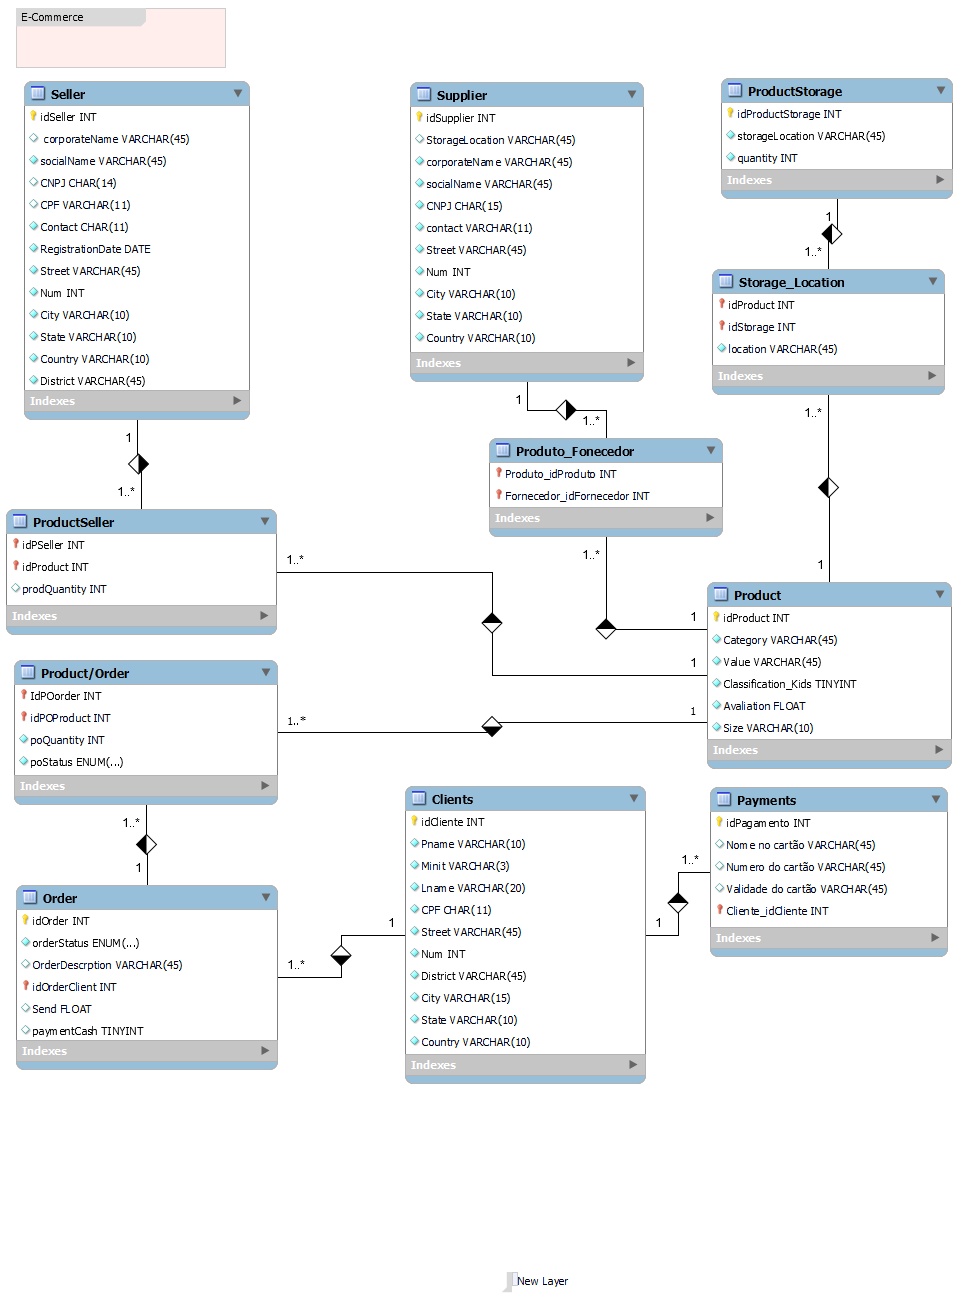
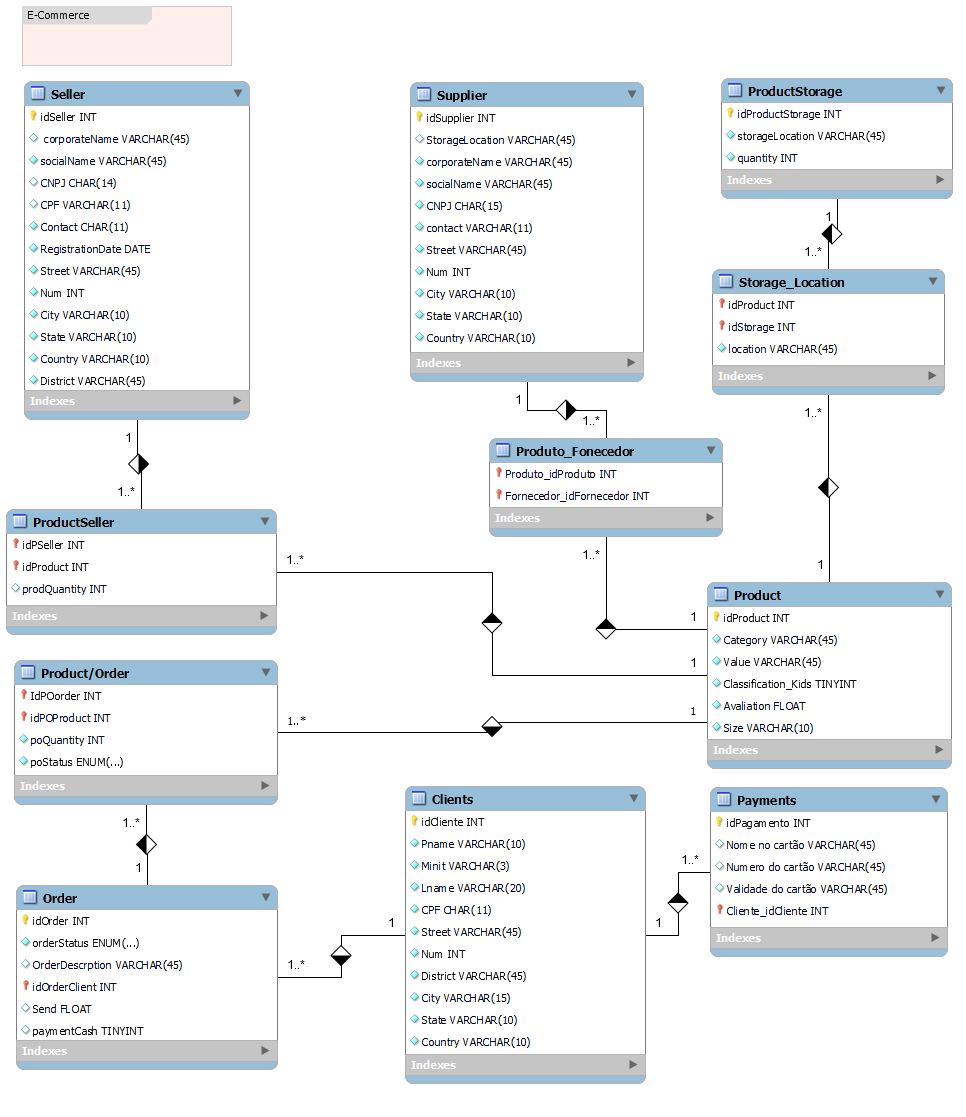
Alteração do arquivo README e Imagem E-commerce

diff --git a/README.md b/README.md
@@ -1,52 +1,66 @@
 # Primeiro projeto lógico de banco de dados
 
-Este projeto cria um esquema de banco de dados para um cenário de E-commerce. No arquivo [Schema-e-commerce](https://github.com/Sanderfn/Primeiro-projeto-logico-de-banco-de-dados/blob/main/Schema-e-commerce.sql) é fornecido é um conjunto de instruções SQL que cria as tabelas necessárias para um banco de dados destinado a um cenário de E-commerce onde são armazenadas e relacionadas as informações sobre clientes, produtos, pedidos, fornecedores e vendedores, de maneira estruturada para suportar as operações do negócio. No arquivo [Insertion](https://github.com/Sanderfn/Primeiro-projeto-logico-de-banco-de-dados/blob/main/Insertion.sql) é fornecido um conjunto de instruções SQL que realiza a inserção de dados em várias tabelas de um banco de dados relacionais e executa consultas para verificar os dados inseridos. Isso permite testar e verificar o funcionamento do banco de dados e das relações entre as tabelas criandas no arquivos [Schema-e-commerce](https://github.com/Sanderfn/Primeiro-projeto-logico-de-banco-de-dados/blob/main/Schema-e-commerce.sql). No arquivo [Search](https://github.com/Sanderfn/Primeiro-projeto-logico-de-banco-de-dados/blob/main/Search.sql) é fornecido um conjunto de instruções SQL que realiza uma série de consultas SQL para realizar várias operações em um banco de dados.
+## Descrição do projeto
 
-## Descrição da funcionalidade
+<p align="justify"> Este desafio de projeto consiste na criação de um projeto lógico de banco de dados para um cenário de e-commerce, com o objetivo de gerenciar clientes, produtos, pedidos, pagamentos, estoque, fornecedores e vendedores. Durante a modelagem, foi realizada a implementação de chaves primárias, chaves estrangeiras e constraints presente no cenário modelado. O projeto contempla o Script SQL para a criação do banco de dados relacional. Posteriormente, por meio de Scripts, os dados devem ser persistidos dados para a realização de testes, utilizando queries simples e complexas. As queries criadas devem possuir as seguintes cláusulas.
 
-### [Schema e-commerce](https://github.com/Sanderfn/Primeiro-projeto-logico-de-banco-de-dados/blob/main/Schema-e-commerce.sql)
+- Recuperação de informações simples com Select Statment
+- Filtros com WHERE Statement
+- Expressões para gerar atributos derivados
+- Definir ordenação dos dados com Order By
+- aplicação de condições de filtro aos grupos Having Statement
+- Criação de junções entre tabelas para fornecer uma perspectivas mais complexas dos dados
+
+## Modelo Entidade Relacional
+- Imagem Modelo Entidade Relacional e-commerce
+<div aling="center">
+ <img src="https://github.com/Sanderfn/Primeiro-projeto-logico-de-banco-de-dados/blob/main/E-commerce.png">
+</div>
+
+## [Schema e-commerce](https://github.com/Sanderfn/Primeiro-projeto-logico-de-banco-de-dados/blob/main/Schema-e-commerce.sql)
+<p align="justify"> O arquivo Schema-e-commerce possui o conjunto de instruções SQL para a criação das tabelas do banco de dados destinado ao armazenamento das informações dos clientes, produtos, pedidos, fornecedores e vendedores, de maneira estruturada para suportar as operações do negócio.<p/> 
+
+|Instrução| Descrição da instrução|
+|---------|------------------|
+|Create database ecommerce:|Cria o banco de dados chamado e-commerce.|
+|use ecommerce| Define o banco de dados e-commerce como o banco de dados atual, permitindo a criação das tabelas para armazenamento dos dados.|
+|create table product|Cria a tabela product conformes as definições do tipo de dados a ser armazenado e do tamanho do campo. Nesta tabela são inseridas informações dos clientes como Nome, sobrenome, endereço entre outras que se fizerem necessarias.|
+|create table product|Cria a tabela product que será responsável por armazenar informações dos produtos disponíveis para venda, incluindo nome, categoria e avaliação.|
+|create table payments|Cria a tabela payment para armazenar as informações sobre os pagamentos associados a cada cliente.|
+|create table orders|Cria a tabela orders para armazenar as informações sobre os pedidos feitos pelos clientes, incluindo status do pedido e descrição.|
+|create table productStorage|Cria a tabela productStorage para armazenar as informações sobre o estoque de produtos, incluindo localização e quantidade disponível.|
+|create table supplier|Cria a tabela supplier para armazenar as informações sobre os fornecedores dos produtos, incluindo CNPJ e endereço.|
+|create table seller|Cria a tabela seller para armazenar informações, como CPF e endereço dos vendedores.|
+|create table productSeller|Cria a tabela productSeller que tem por finalidade relacionar produtos aos vendedores, especificando a quantidade disponível.|
+|create table productOrder|Cria a tabela  productOrder que tem por finalidade relacionar produtos aos pedidos, especificando a quantidade e o status.|
+|create table storageLocation|Cria a tabela storageLocation que tem por finalidade relacionar produtos às localizações de armazenamento no estoque.|
+|create table productSupplier|Cria a tabela productSupplier que tem por finalidade relacionar produtos aos fornecedores, especificando a quantidade fornecida.|
+
+## [Insertion](https://github.com/Sanderfn/Primeiro-projeto-logico-de-banco-de-dados/blob/main/Insertion.sql)
+<p align="justify">
+O arquivo Insertion fornece um conjunto de instruções SQL para realizar a persistencia de dados nas tabelas do banco de dados e-commerce, possibilitando a realização de consultas para verificar os dados persistidos. Após a persistencia, é possível testar e verificar o funcionamento do banco de dados e das relações entre as tabelas criadas pelo script Schema e-commerce.<p/>
     
-    1. Criação do banco de dados:
-      - Create database ecommerce: Está instrução cria o banco de dados chamado "ecommerce".
-      - use ecommerce: Esta instrução define o banco de dados "ecommerce" como o banco de dados atual, permitindo a criação das tabelas para armazenamento dos dados.
-    2. Criação das tabelas: 
-      - create table clients: Esta instrução cria a tabela clientes conformes as definições do tipo de dados a ser armazenado e do tamanho do campo. Nesta tabela são inseridas informações dos clientes como Nome, sobrenome, endereço entre outras que se fizerem necessarias.
-      - create product: Esta instrução cria a tabela produtos que será responsável por armazenar informações dos produtos disponíveis para venda, incluindo nome, categoria e avaliação.
-      - create payments: Esta instrução cria a tabela pagamentos para armazenar as informações sobre os pagamentos associados a cada cliente. 
-      - create orders: Esta instrução cria a tabela ordens para armazenar as informações sobre os pedidos feitos pelos clientes, incluindo status do pedido e descrição.
-      - create productStorage: Esta instrução cria a tabela produtosEstoque para armazenar as informações sobre o estoque de produtos, incluindo localização e quantidade disponível.
-      - create supplier: Esta instrução cria a tabela fornrcedores para armazenar as informações sobre os fornecedores dos produtos, incluindo CNPJ e endereço.
-      - create seller: Esta instrução cria a tabela vendedores para armazenar informações, como CPF e endereço dos vendedores.
-      - create productSeller: Esta instrução cria a tabela produtoVendedor que tem por finalidade relacionar produtos aos vendedores, especificando a quantidade disponível.
-      - create productOrder: Esta instrução cria a tabela  produtoPedidos que tem por finalidade relacionar produtos aos pedidos, especificando a quantidade e o status.
-      - create storageLocation: Esta instrução cria a tabela lojasLocalização que tem por finalidade relacionar produtos às localizações de armazenamento no estoque.
-      - create productSupplier: Esta instrução cria a tabela produtoSuprimento que tem por finalidade relacionar produtos aos fornecedores, especificando a quantidade fornecida.
-    3. Restrições e chaves Estrangeiras: Exite ainda restrições como "constraint unique_cpf_client unique (CPF)" que cria uma restrição que impede o cadastramento de um CPF em duplicidade. Existe ainda outras restrições e chaves estrangeiras para garantir a integridade dos dados, como chaves primárias, chaves únicas e chaves estrangeiras que estabelecem relações entre as tabelas.
+|Instrução| Descrição da instrução|
+|---------|------------------|
+|insert into clients| Esta instrução insere na tabela clients informações como nome, CPF e endereço.|
+|insert into product| Esta instrução insere na tabela product informações como nome, categoria e avaliação dos produtos.|
+|insert into orders|  Esta instrução insere na tabela de orders informações como cliente associado aos pedido, status do pedido e descrição.|
+|insert into productOrder| Esta instrução insere na tabela productOrder registros associando produtos aos pedidos, especificando a quantidade e o status.|
+|insert into productStorage| Esta instrução insere na tabela productStorage registros relacionados ao armazenamento de produtos, especificando a localização e a quantidade disponível.|
+|insert into storageLocation| Esta instrução insere na tabela storageLocation registros relacionando produtos a locais de armazenamento específicos.|
+|insert into productSupplier| Esta instrução insere na tabela productSupplier registros associando produtos aos fornecedores, especificando a quantidade fornecida.|
+|insert into seller| Esta instrução insere na tabela seller registros dos vendedores com informações como CPF e endereço.|
+|insert into productSeller| Esta instrução insere na tabela productSeller registros associando produtos aos vendedores, especificando a quantidade disponível.|
 
-    Em resumo, o código do arquivo Schema-e-commerce cria um esquema de banco de dados para um cenário de e-commerce, onde informações sobre clientes, produtos, pedidos, fornecedores e vendedores são armazenadas e relacionadas de maneira estruturada para suportar as operações do negócio.
-   
-### [Insertion](https://github.com/Sanderfn/Primeiro-projeto-logico-de-banco-de-dados/blob/main/Insertion.sql)
+## [Search](https://github.com/Sanderfn/Primeiro-projeto-logico-de-banco-de-dados/blob/main/Search.sql)
+<p align="justify"> 
+O arquivo Search fornece um conjunto de instruções SQL que realiza a recuperação dos dados persistidos no banco de dados.</p>
 
-    1. Inserção de dados nas tabelas criada.
-      - insert into clients: Esta instrução insere na tabela clientes informações como nome, CPF e endereço.
-      - insert into product: Esta instrução insere na tabela produtos informações como nome, categoria e avaliação dos produtos.
-      - insert into orders:  Esta instrução insere na tabela de pedidos informações como cliente associado aos pedido, status do pedido e descrição.
-      - insert into productOrder: Esta instrução insere na tabela produtosPedidos registros associando produtos aos pedidos, especificando a quantidade e o status.
-      - insert into productStorage: Esta instrução insere na tabela produtosEstoque registros relacionados ao armazenamento de produtos, especificando a localização e a quantidade disponível.
-      - insert into storageLocation: Esta instrução insere na tabela lojasLocalização registros relacionando produtos a locais de armazenamento específicos.
-      - insert into productSupplier: Esta instrução insere na tabela produtoSuprimento registros associando produtos aos fornecedores, especificando a quantidade fornecida.
-      - insert into seller: Esta instrução insere na tabela vendedor registros dos vendedores com informações como CPF e endereço.
-      - insert into productSeller: Esta instrução insere na tabela produtoVendedor registros associando produtos aos vendedores, especificando a quantidade disponível.
-
-### [Search](https://github.com/Sanderfn/Primeiro-projeto-logico-de-banco-de-dados/blob/main/Search.sql)
-
-    1. Criação das consultas no banco de dados:
-      - select count(*) from Clients: Esta consulta retorna o número total de clientes na tabela "Clients".
-      - select count(*) from product;: Esta consulta retorna o número total de produtos na tabela "product".
-      - select count(*) from orders;: Esta consulta retorna o número total de pedidos na tabela "orders".
-      - select concat(Pname,' ',Lname) as Client, idOrder as Request, orderStatus as Status from clients c, orders o where c.idclients = idOrderClient;: Esta consulta une as tabelas "clients" e "orders" e retorna o nome completo do cliente (unificando o nome e sobrenome), o número do pedido e o status do pedido.
-      - select * from clients c, orders o where c.idclients = idOrderClient group by idOrder;: Esta consulta retorna uma relação onde a identificação do cliente é igual à identificação do pedido do cliente. Ela une as tabelas "clients" e "orders" e agrupa os resultados pelo ID do pedido.
-      - select c.idClients, Pname, count(*) as Number_of_orders from clients c inner join orders o on c.idclients = o.idOrderClient inner join productOrder p on p.idPOorder = o.idOrder group by idClients;: Esta consulta retorna o número de pedidos realizados por cada cliente. Ela une as tabelas "clients", "orders" e "productOrder", contabiliza o número de pedidos para cada cliente e agrupa os resultados pelo ID do cliente.
-      
-
-   
+|Instrução| Descrição da instrução|
+|---------|------------------|
+|select count(*) from Clients|Esta consulta retorna o número total de clientes na tabela "Clients".|
+|select count(*) from product|Esta consulta retorna o número total de produtos na tabela "product".|
+|select count(*) from orders|Esta consulta retorna o número total de pedidos na tabela "orders"|
+|select concat(Pname,' ',Lname) as Client, idOrder as Request, orderStatus as Status from clients c, orders o where c.idclients = idOrderClient|Esta consulta une as tabelas "clients" e "orders" e retorna o nome completo do cliente (unificando o nome e sobrenome), o número do pedido e o status do pedido.|
+|select * from clients c, orders o where c.idclients = idOrderClient group by idOrder|Esta consulta retorna uma relação onde a identificação do cliente é igual à identificação do pedido do cliente. Ela une as tabelas "clients" e "orders" e agrupa os resultados pelo ID do pedido.|
+|select c.idClients, Pname, count(*) as Number_of_orders from clients c inner join orders o on c.idclients = o.idOrderClient inner join productOrder p on p.idPOorder = o.idOrder group by idClients|Esta consulta retorna o número de pedidos realizados por cada cliente. Ela une as tabelas "clients", "orders" e "productOrder", contabiliza o número de pedidos para cada cliente e agrupa os resultados pelo ID do cliente.|
